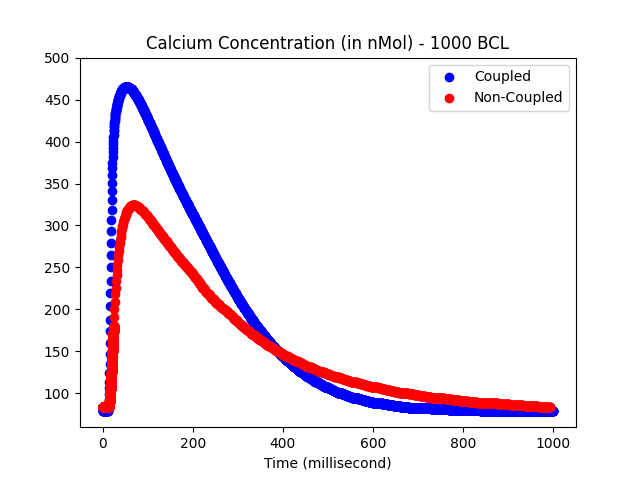
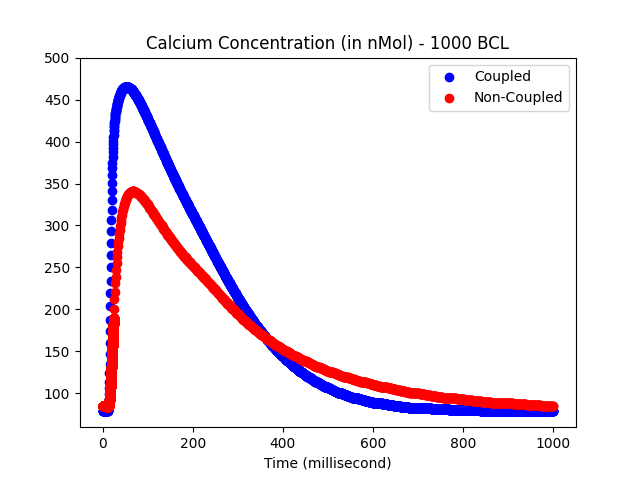
add validated graphics

Changed region(s): [[0.1562, 0.375, 0.75, 0.875], [0.7812, 0.8125, 0.875, 0.875], [0.1562, 0.5938, 0.1875, 0.6875]]

diff --git a/result/plotnew.py b/result/plotnew.py
@@ -6,12 +6,7 @@ import matplotlib.pyplot as plt
 
 data_main = pd.read_csv("orudy_cai.csv")
 
-# coupled = pd.read_csv("../result/chlorpromazine/0.00/0conc.csv")
-# data1 = pd.read_csv("./1000_noscale/0.00/0conc.csv")
-# data2 = pd.read_csv("./1000/0.00/0vmcheck.csv")
-data2 = pd.read_csv("./1000_bclfix/0.00/0conc.csv")
-# data3 = pd.read_csv("./1500_bclfix/0.00/0conc.csv")
-# data4 = pd.read_csv("./2000_bclfix/0.00/0conc.csv")
+data2 = pd.read_csv("./testing/0.00/0conc.csv")
 
 # Create a figure and subplots with shared x- axis            
 plt.figure()
@@ -28,7 +23,7 @@ time2 = data2['Time']-999000
 # plt.scatter(time3, data3['cai'].head(len(time3)), color='orange', label='1500 BCL')
 plt.scatter(time2, data2['cai'].head(len(time2))*1000000, color='blue', label='Coupled')
 # plt.scatter(time1, data1['cai'].head(len(time1)), color='lightblue', label='Not Scaled')
-plt.scatter(data_main['Time'], data_main['Cai_1000msec'], color='red', label='Non-Coupled')
+plt.scatter(data_main['Time'], data_main['Cai(x1.000.000)(milliM->picoM)'], color='red', label='Non-Coupled')
 
 # plt.scatter(data4['Time']-1998000, data4['v'], color='red', label='2000 BCL')
 # plt.scatter(data3['Time']-1498500, data3['v'], color='orange', label='1500 BCL')
